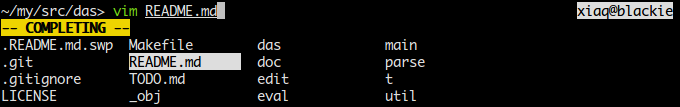
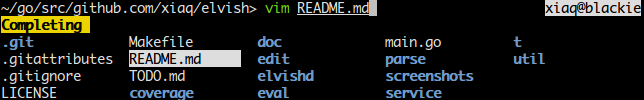
Add navigation mode screenshot, update existing ones

diff --git a/README.md b/README.md
@@ -15,9 +15,13 @@ Syntax highlighting (also showcasing right-hand-side prompt):
 
 ![syntax highlighting](./screenshots/syntax.png)
 
-Tab completion:
+Tab completion for files:
 
 ![tab completion](./screenshots/completion.png)
+
+Navigation mode (inspired by [ranger](http://ranger.nongnu.org/)):
+
+![navigation mode](./screenshots/navigation.png)
 
 ## Building
 
